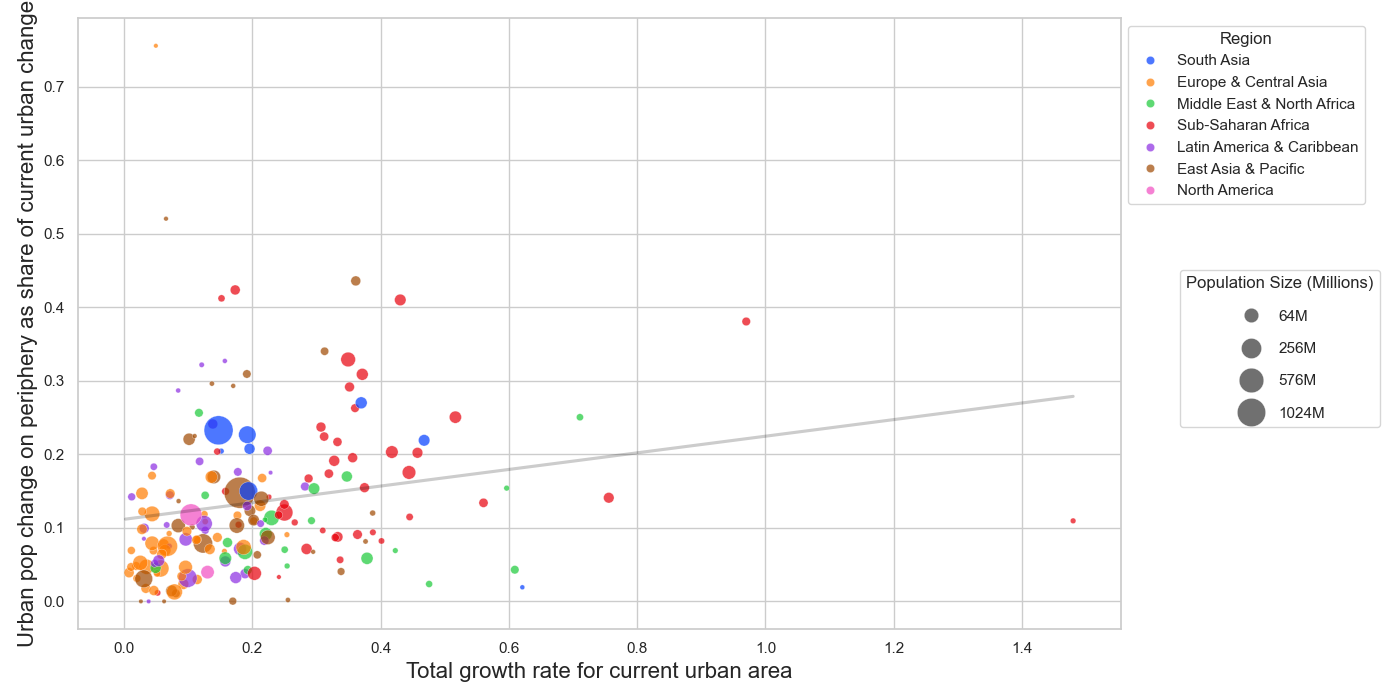
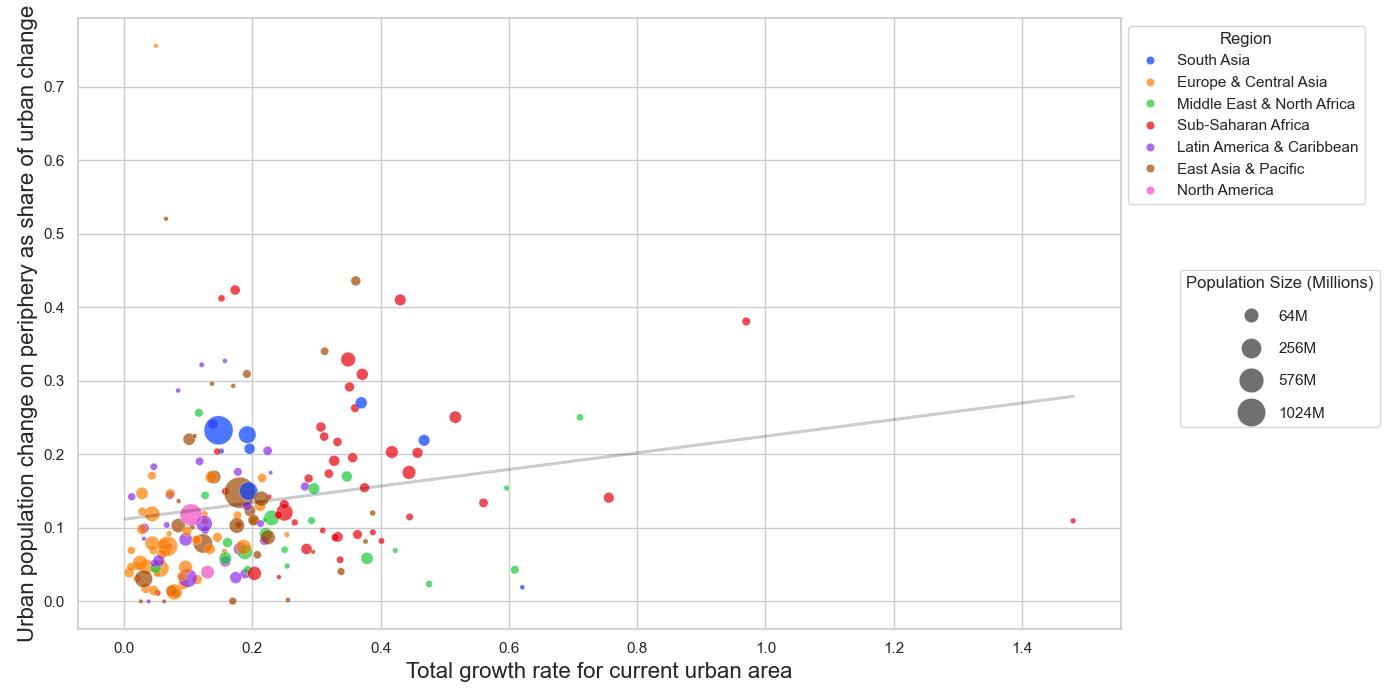
Renamed axis

Changed region(s): [[0.0, 0.0, 0.0307, 0.93]]

diff --git a/plots.py b/plots.py
@@ -100,10 +100,10 @@ dt["sqPopulation2000"] = np.sqrt(dt["Population2000"])
 plot_urban_data(data=dt, x_col="urbanGrowthRate", y_col="shOfUrbanPopinPeri",x_label="Urban Growth Rate", y_label="Share of Urban Population on the Periphery", hue_col="Region", size_col="sqPopulation2000", save_path=results1 + r"\Urban Growth Rate vs Share of Urban Population on Periphery.png")
 
 # Plot 2 Urban Share in 2010 vs Share of Urban Population on Periphery
-plot_urban_data(data=dt, x_col="shOfPopUrban2010", y_col="shOfUrbanPopinPeri",x_label="Share of urban population in 2010", y_label="Share of Urban Population on the Periphery", hue_col="Region", size_col="sqPopulation2000", save_path=results1 + r"\Share of urban population in 2010 vs Share of Urban Population on Periphery.png")
+plot_urban_data(data=dt, x_col="shOfPopUrban2010", y_col="shOfUrbanPopinPeri",x_label="Urban population share in 2010", y_label="Share of Urban Population on the Periphery", hue_col="Region", size_col="sqPopulation2000", save_path=results1 + r"\Share of urban population in 2010 vs Share of Urban Population on Periphery.png")
 
 # Plot 3  Urban Growth Rate vs Share of Urban Population in 2010
-plot_urban_data(data=dt, x_col="shOfPopUrban2010", y_col="urbanGrowthRate", x_label="Share of urban population in 2010", y_label="Urban Growth Rate", hue_col="Region", size_col="sqPopulation2000", save_path=results1 + r"\Urban Growth Rate vs Share of urban population in 2010.png")
+plot_urban_data(data=dt, x_col="shOfPopUrban2010", y_col="urbanGrowthRate", x_label="Urban population share in 2010", y_label="Urban Growth Rate", hue_col="Region", size_col="sqPopulation2000", save_path=results1 + r"\Urban Growth Rate vs Share of urban population in 2010.png")
 
 
 
@@ -116,13 +116,13 @@ x_axis = (dt["c2UrbanPopChange_2010-2020"] + dt["c3UrbanPopChange_2010-2020"])/p
 
 
 # Plot 4  Urban Growth Rate vs Urban pop change on pp as share of current urban change
-plot_urban_data(data=dt, x_col=x_axis, y_col=y_axis, x_label="Total growth rate for current urban area", y_label="Urban pop change on periphery as share of current urban change", hue_col="Region", size_col="sqPopulation2000", save_path=results1 + r"\Urban Growth Rate vs Urban pop change on pp as share of current urban change.png")
+plot_urban_data(data=dt, x_col=x_axis, y_col=y_axis, x_label="Total growth rate for current urban area", y_label="Urban population change on periphery as share of urban change", hue_col="Region", size_col="sqPopulation2000", save_path=results1 + r"\Urban Growth Rate vs Urban pop change on pp as share of current urban change.png")
 
 # Plot 5  Share of population that is urban 2010 vs Urban pop change on pp as share of current urban change
-plot_urban_data(data=dt, x_col="shOfPopUrban2010", y_col=y_axis, x_label="Share of urban population in 2010", y_label="Urban pop change on periphery as share of current urban change", hue_col="Region", size_col="sqPopulation2000", save_path=results1 + r"\Share of urban population in 2010 vs Urban pop change on pp as share of current urban change.png")
+plot_urban_data(data=dt, x_col="shOfPopUrban2010", y_col=y_axis, x_label="Urban population share in 2010", y_label="Urban population change on periphery as share of urban change", hue_col="Region", size_col="sqPopulation2000", save_path=results1 + r"\Share of urban population in 2010 vs Urban pop change on pp as share of current urban change.png")
 
 # Plot 6  Share of population that is urban 2010 vs Urban pop change on pp as share of current urban change
-plot_urban_data(data=dt, x_col="shOfPopUrban2010", y_col=x_axis, x_label="Share of urban population in 2010", y_label="Total growth rate for current urban area", hue_col="Region", size_col="sqPopulation2000", save_path=results1 + r"\Share of urban population in 2010 vs Total growth rate for current urban area.png")
+plot_urban_data(data=dt, x_col="shOfPopUrban2010", y_col=x_axis, x_label="Urban population share in 2010", y_label="Total growth rate for current urban area", hue_col="Region", size_col="sqPopulation2000", save_path=results1 + r"\Share of urban population in 2010 vs Total growth rate for current urban area.png")
 
 print('Results for urban def 1 saved in ' + results1)
 
@@ -152,10 +152,10 @@ dt["sqPopulation2000"] = np.sqrt(dt["Population2000"])
 plot_urban_data(data=dt, x_col="urbanGrowthRate", y_col="shOfUrbanPopinPeri",x_label="Urban Growth Rate", y_label="Share of Urban Population on the Periphery", hue_col="Region", size_col="sqPopulation2000", save_path=results2 + r"\Urban Growth Rate vs Share of Urban Population on Periphery.png")
 
 # Plot 2 Urban Share in 2010 vs Share of Urban Population on Periphery
-plot_urban_data(data=dt, x_col="shOfPopUrban2010", y_col="shOfUrbanPopinPeri",x_label="Share of urban population in 2010", y_label="Share of Urban Population on the Periphery", hue_col="Region", size_col="sqPopulation2000", save_path=results2 + r"\Share of urban population in 2010 vs Share of Urban Population on Periphery.png")
+plot_urban_data(data=dt, x_col="shOfPopUrban2010", y_col="shOfUrbanPopinPeri",x_label="Urban population share in 2010", y_label="Share of Urban Population on the Periphery", hue_col="Region", size_col="sqPopulation2000", save_path=results2 + r"\Share of urban population in 2010 vs Share of Urban Population on Periphery.png")
 
 # Plot 3  Urban Growth Rate vs Share of Urban Population in 2010
-plot_urban_data(data=dt, x_col="shOfPopUrban2010", y_col="urbanGrowthRate", x_label="Share of urban population in 2010", y_label="Urban Growth Rate", hue_col="Region", size_col="sqPopulation2000", save_path=results2 + r"\Urban Growth Rate vs Share of urban population in 2010.png")
+plot_urban_data(data=dt, x_col="shOfPopUrban2010", y_col="urbanGrowthRate", x_label="Urban population share in 2010", y_label="Urban Growth Rate", hue_col="Region", size_col="sqPopulation2000", save_path=results2 + r"\Urban Growth Rate vs Share of urban population in 2010.png")
 
 
 
@@ -168,13 +168,13 @@ x_axis = (dt["c2UrbanPopChange_2010-2020"] + dt["c3UrbanPopChange_2010-2020"])/p
 
 
 # Plot 4  Urban Growth Rate vs Urban pop change on pp as share of current urban change
-plot_urban_data(data=dt, x_col=x_axis, y_col=y_axis, x_label="Total growth rate for current urban area", y_label="Urban pop change on periphery as share of current urban change", hue_col="Region", size_col="sqPopulation2000", save_path=results2 + r"\Urban Growth Rate vs Urban pop change on pp as share of current urban change.png")
+plot_urban_data(data=dt, x_col=x_axis, y_col=y_axis, x_label="Total growth rate for current urban area", y_label="Urban population change on periphery as share of urban change", hue_col="Region", size_col="sqPopulation2000", save_path=results2 + r"\Urban Growth Rate vs Urban pop change on pp as share of current urban change.png")
 
 # Plot 5  Share of population that is urban 2010 vs Urban pop change on pp as share of current urban change
-plot_urban_data(data=dt, x_col="shOfPopUrban2010", y_col=y_axis, x_label="Share of urban population in 2010", y_label="Urban pop change on periphery as share of current urban change", hue_col="Region", size_col="sqPopulation2000", save_path=results2 + r"\Share of urban population in 2010 vs Urban pop change on pp as share of current urban change.png")
+plot_urban_data(data=dt, x_col="shOfPopUrban2010", y_col=y_axis, x_label="Urban population share in 2010", y_label="Urban population change on periphery as share of urban change", hue_col="Region", size_col="sqPopulation2000", save_path=results2 + r"\Share of urban population in 2010 vs Urban pop change on pp as share of current urban change.png")
 
 # Plot 6  Share of population that is urban 2010 vs Urban pop change on pp as share of current urban change
-plot_urban_data(data=dt, x_col="shOfPopUrban2010", y_col=x_axis, x_label="Share of urban population in 2010", y_label="Total growth rate for current urban area", hue_col="Region", size_col="sqPopulation2000", save_path=results2 + r"\Share of urban population in 2010 vs Total growth rate for current urban area.png")
+plot_urban_data(data=dt, x_col="shOfPopUrban2010", y_col=x_axis, x_label="Urban population share in 2010", y_label="Total growth rate for current urban area", hue_col="Region", size_col="sqPopulation2000", save_path=results2 + r"\Share of urban population in 2010 vs Total growth rate for current urban area.png")
 
 print('Results for urban def 2 saved in ' + results2)
 
